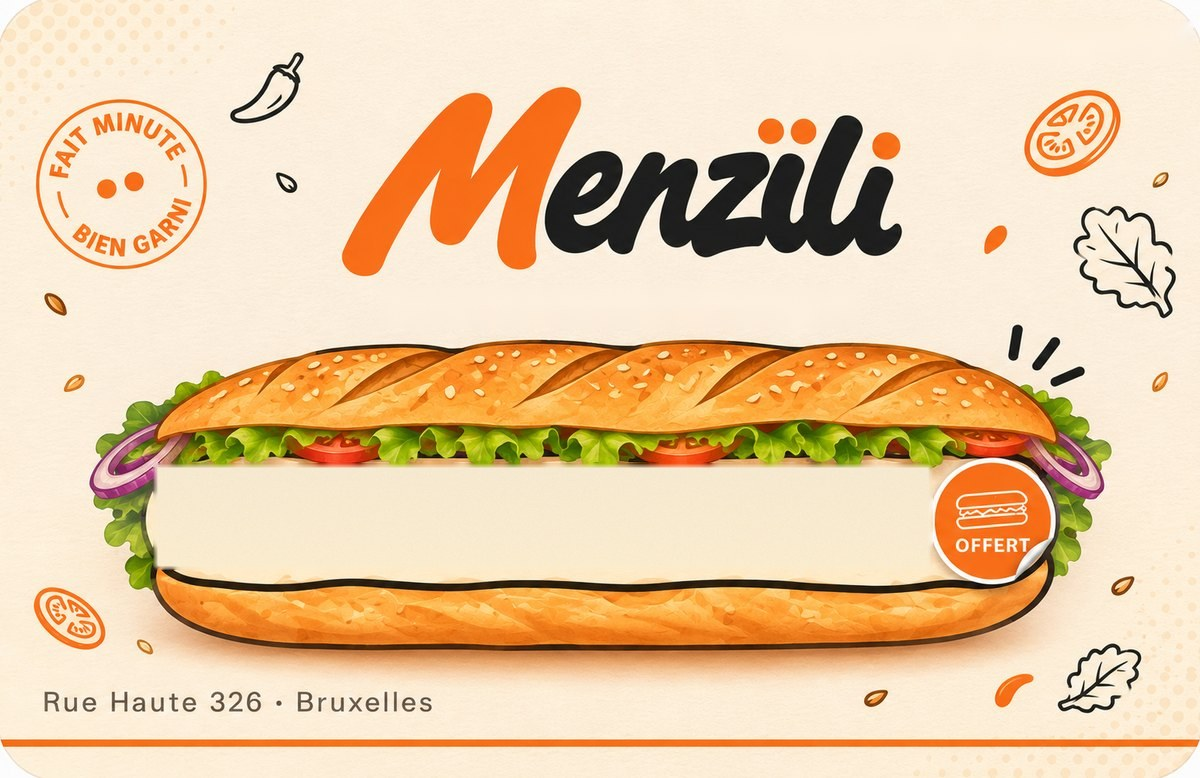
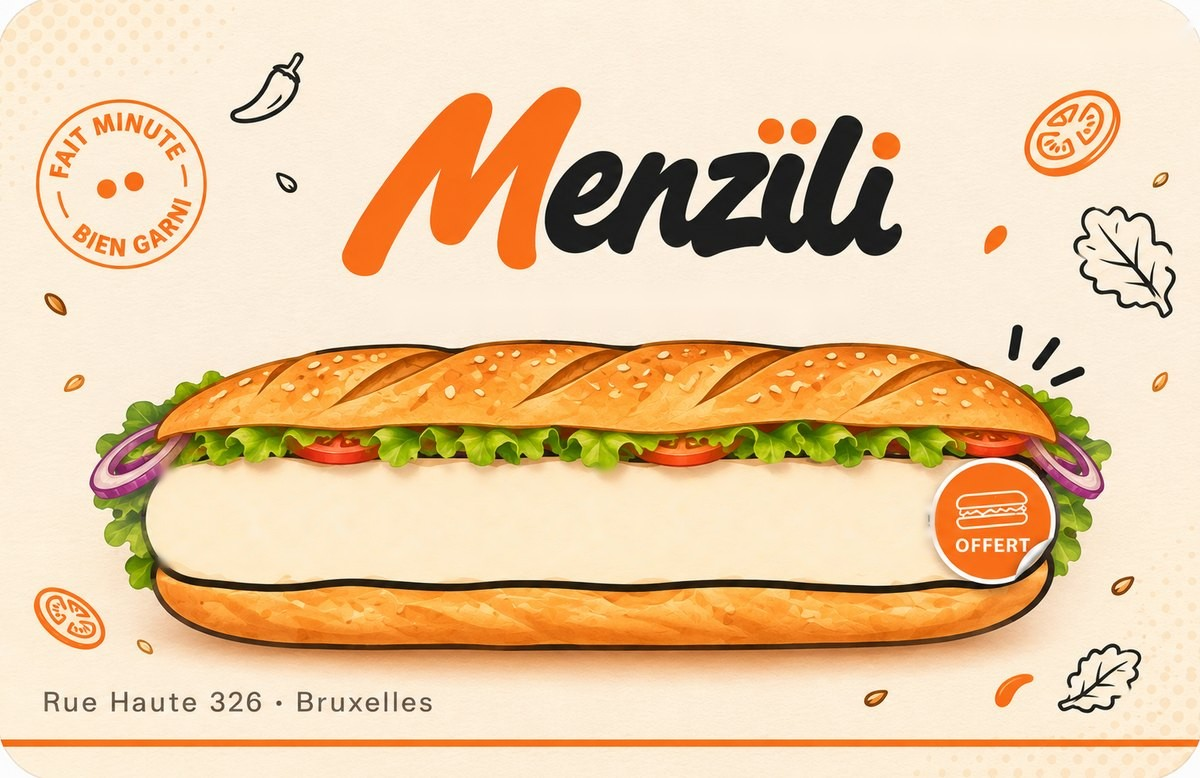
Carte de points : mie d'origine conservée (seuls les tampons sont effacés), plus de bande rectangulaire
Claude-Session: https://claude.ai/code/session_01UboGdJxdMPKrDYxRb7mr2V

Changed region(s): [[0.1233, 0.5861, 0.7708, 0.617], [0.7708, 0.6478, 0.8017, 0.6787], [0.1233, 0.7095, 0.1542, 0.7404]]

diff --git a/index.html b/index.html
@@ -271,7 +271,7 @@ img{display:block}
 .pcard2 .pc-title{position:absolute;left:50%;top:36.6%;transform:translateX(-50%);display:flex;align-items:center;gap:1.1cqw;font-size:3.05cqw;font-weight:600;letter-spacing:.2em;color:#2a2018;white-space:nowrap}
 .pcard2 .pc-title i{width:1.5cqw;height:1.5cqw;border-radius:50%;background:var(--or)}
 .pcard2 .pc-title i+i{margin-right:1.4cqw}
-.pc-band{position:absolute;left:12.4%;top:58.6%;width:66.5%;height:14.6%;border-radius:0 4cqw 4cqw 0;background:linear-gradient(#f8ecd4,#fbeed5);display:flex;align-items:center;gap:3cqw;padding:0 4cqw 0 3.4cqw;box-shadow:inset 0 .4cqw .6cqw #c9a06a33}
+.pc-band{position:absolute;left:13.5%;top:59.6%;width:62%;height:13.8%;display:flex;align-items:center;gap:3cqw;padding:0 2cqw 0 1.5cqw}
 .pc-n{font-size:7.4cqw;font-weight:850;letter-spacing:-.04em;line-height:1;color:#1c1612;white-space:nowrap}
 .pc-n small{font-size:2.6cqw;font-weight:750;color:var(--or-d);margin-left:.6cqw;letter-spacing:0}
 .pc-track{flex:1;height:2.3cqw;border-radius:2cqw;background:#e9d6b4;position:relative;border:.3cqw dashed #2a201855}
